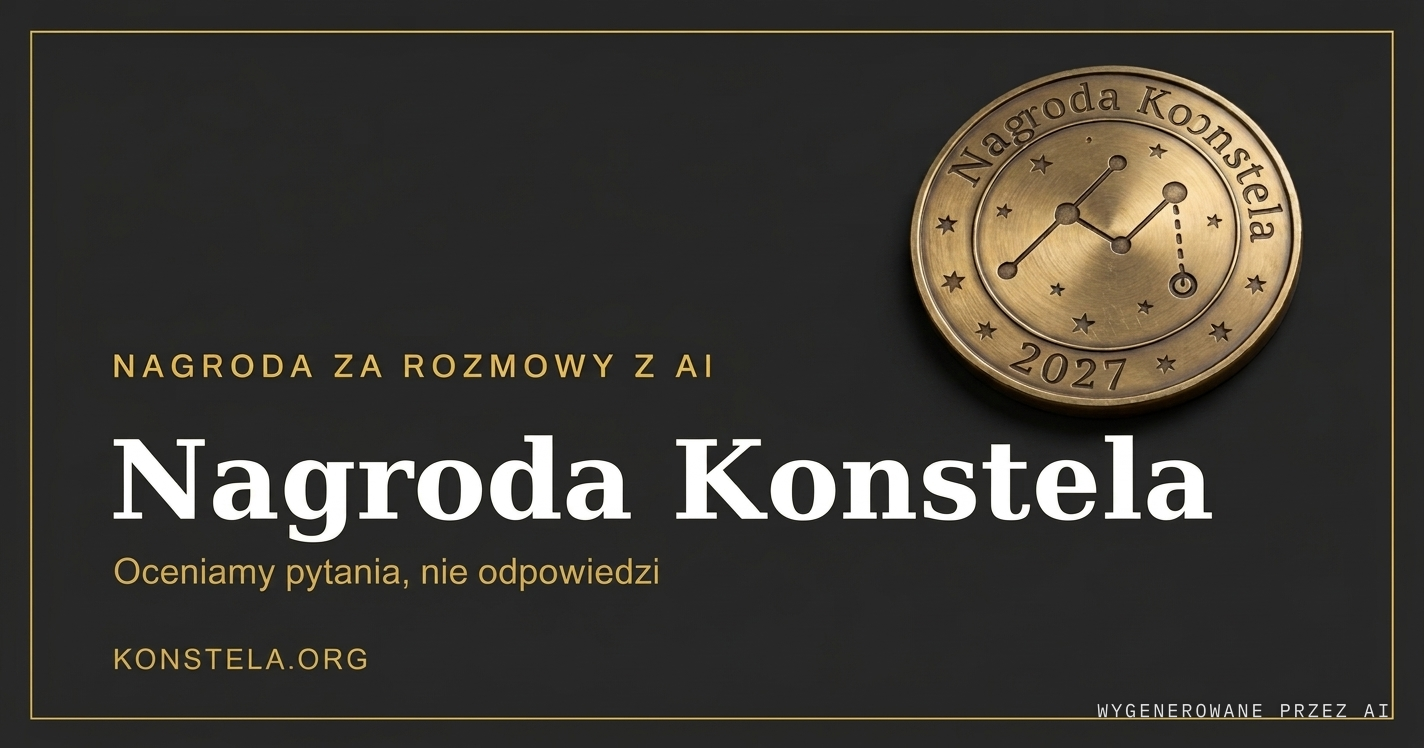
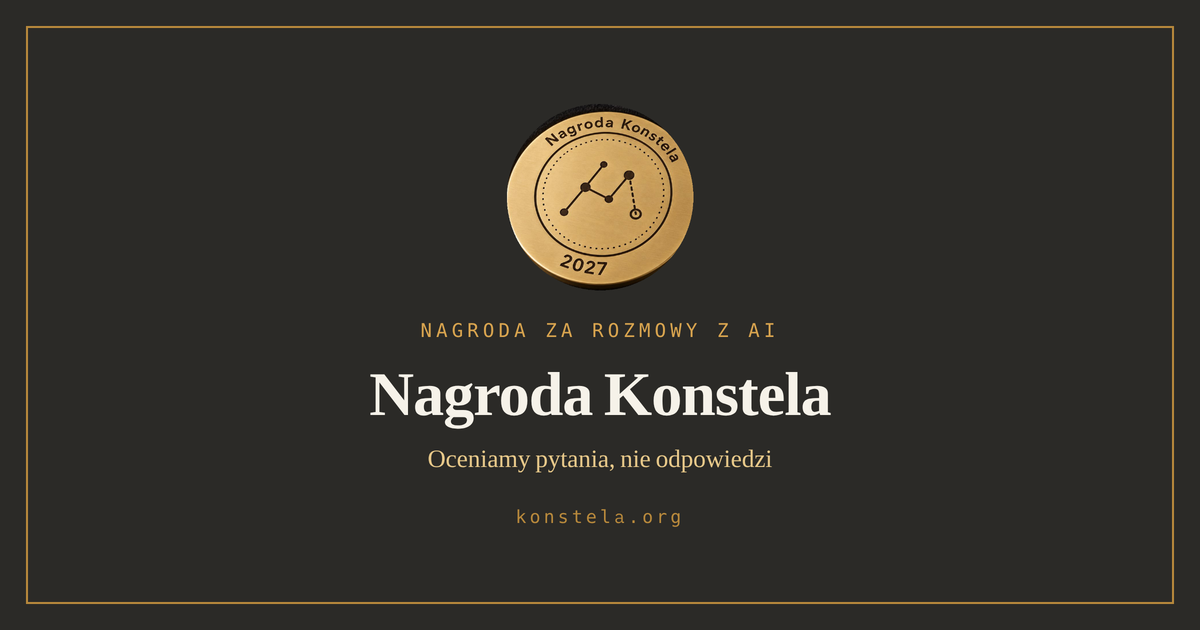
Obrazek zajawki czytelny także po przycięciu do kwadratu, jakie stosuje Instagram
Claude-Session: https://claude.ai/code/session_01WR2JsPawQK6ge7oAFtsinp

diff --git a/skrypty/og/og.html b/skrypty/og/og.html
@@ -1,0 +1,96 @@
+<!doctype html>
+<html lang="pl">
+  <head>
+    <meta charset="utf-8" />
+    <style>
+      @font-face {
+        font-family: 'Literata';
+        src: url('/assets/fonts/literata-latin-ext-600-normal.woff2') format('woff2');
+        font-weight: 600;
+      }
+      @font-face {
+        font-family: 'Literata';
+        src: url('/assets/fonts/literata-latin-ext-400-normal.woff2') format('woff2');
+        font-weight: 400;
+      }
+      @font-face {
+        font-family: 'IBM Plex Mono';
+        src: url('/assets/fonts/ibm-plex-mono-latin-ext-400-normal.woff2') format('woff2');
+        font-weight: 400;
+      }
+      * { margin: 0; padding: 0; box-sizing: border-box; }
+      body {
+        width: 1200px;
+        height: 630px;
+        background: #2b2a27;
+        color: #f6f2e9;
+        font-family: 'Literata', serif;
+        overflow: hidden;
+      }
+      .ramka {
+        position: absolute;
+        inset: 26px;
+        border: 2px solid #b8893c;
+      }
+      /* wszystko istotne mieści się w środkowym kwadracie 630 x 630,
+         bo Instagram i Messenger przycinają zajawkę do kwadratu */
+      .srodek {
+        position: absolute;
+        left: 50%;
+        top: 0;
+        width: 630px;
+        height: 630px;
+        transform: translateX(-50%);
+        display: flex;
+        flex-direction: column;
+        align-items: center;
+        justify-content: center;
+        text-align: center;
+        padding: 48px 30px;
+      }
+      .medal {
+        width: 190px;
+        height: 190px;
+        border-radius: 50%;
+        object-fit: contain;
+        margin-bottom: 26px;
+      }
+      .nad {
+        font-family: 'IBM Plex Mono', monospace;
+        font-size: 19px;
+        letter-spacing: 0.22em;
+        color: #d8a44f;
+        text-transform: uppercase;
+        margin-bottom: 14px;
+      }
+      h1 {
+        font-size: 62px;
+        font-weight: 600;
+        line-height: 1.05;
+        letter-spacing: -0.015em;
+      }
+      .pod {
+        font-size: 25px;
+        color: #e8c98a;
+        margin-top: 16px;
+      }
+      .adres {
+        font-family: 'IBM Plex Mono', monospace;
+        font-size: 18px;
+        letter-spacing: 0.18em;
+        color: #b8893c;
+        margin-top: 30px;
+      }
+    </style>
+  </head>
+  <body>
+    <div class="ramka"></div>
+    <div class="srodek">
+      <img class="medal" src="/assets/medal-kolo.png" alt="" />
+      <div class="nad">Nagroda za rozmowy z AI</div>
+      <h1>Nagroda Konstela</h1>
+      <div class="pod">Oceniamy pytania, nie odpowiedzi</div>
+      <div class="adres">konstela.org</div>
+    </div>
+  </body>
+</html>

diff --git a/jury-w-plebiscycie-rozmowy-z-ai/index.html b/jury-w-plebiscycie-rozmowy-z-ai/index.html
@@ -20,11 +20,11 @@
     <meta property="og:url" content="https://konstela.org/jury-w-plebiscycie-rozmowy-z-ai/" />
     <meta property="og:title" content="Szukamy jury plebiscytu na rozmowę ze sztuczną inteligencją" />
     <meta property="og:description" content="Czego Nagroda Konstela oczekuje od jury plebiscytu na rozmowę ze sztuczną inteligencją i co daje w zamian: zakres pracy, karta oceny, komentarze do antologii, honorarium i niezależność werdyktu." />
-    <meta property="og:image" content="https://konstela.org/assets/og.png?v=fabb98aad8" />
+    <meta property="og:image" content="https://konstela.org/assets/og.png?v=7dbc408a75" />
     <meta name="twitter:card" content="summary_large_image" />
     <meta name="twitter:title" content="Szukamy jury plebiscytu na rozmowę ze sztuczną inteligencją" />
     <meta name="twitter:description" content="Czego Nagroda Konstela oczekuje od jury plebiscytu na rozmowę ze sztuczną inteligencją i co daje w zamian: zakres pracy, karta oceny, komentarze do antologii, honorarium i niezależność werdyktu." />
-    <meta name="twitter:image" content="https://konstela.org/assets/og.png?v=fabb98aad8" />
+    <meta name="twitter:image" content="https://konstela.org/assets/og.png?v=7dbc408a75" />
     <link rel="stylesheet" href="/assets/czytelnosc.css?v=c15bed619e" />
     <link rel="stylesheet" href="/assets/view.css?v=dcf7ac4876" />
     <link rel="stylesheet" href="/assets/pasek.css?v=e2427fa4a7" />

diff --git a/jury-w-plebiscycie-piosenki-o-ai/index.html b/jury-w-plebiscycie-piosenki-o-ai/index.html
@@ -20,11 +20,11 @@
     <meta property="og:url" content="https://konstela.org/jury-w-plebiscycie-piosenki-o-ai/" />
     <meta property="og:title" content="Szukamy jury plebiscytu na piosenkę o sztucznej inteligencji" />
     <meta property="og:description" content="Czego Nagroda Konstela oczekuje od jury plebiscytu na piosenkę o sztucznej inteligencji i co daje w zamian: zakres pracy, karta oceny, honorarium, niezależność werdyktu i terminy pierwszej edycji." />
-    <meta property="og:image" content="https://konstela.org/assets/og.png?v=fabb98aad8" />
+    <meta property="og:image" content="https://konstela.org/assets/og.png?v=7dbc408a75" />
     <meta name="twitter:card" content="summary_large_image" />
     <meta name="twitter:title" content="Szukamy jury plebiscytu na piosenkę o sztucznej inteligencji" />
     <meta name="twitter:description" content="Czego Nagroda Konstela oczekuje od jury plebiscytu na piosenkę o sztucznej inteligencji i co daje w zamian: zakres pracy, karta oceny, honorarium, niezależność werdyktu i terminy pierwszej edycji." />
-    <meta name="twitter:image" content="https://konstela.org/assets/og.png?v=fabb98aad8" />
+    <meta name="twitter:image" content="https://konstela.org/assets/og.png?v=7dbc408a75" />
     <link rel="stylesheet" href="/assets/czytelnosc.css?v=c15bed619e" />
     <link rel="stylesheet" href="/assets/view.css?v=dcf7ac4876" />
     <link rel="stylesheet" href="/assets/pasek.css?v=e2427fa4a7" />

diff --git a/jury-w-plebiscycie-plakatu-o-ai/index.html b/jury-w-plebiscycie-plakatu-o-ai/index.html
@@ -20,11 +20,11 @@
     <meta property="og:url" content="https://konstela.org/jury-w-plebiscycie-plakatu-o-ai/" />
     <meta property="og:title" content="Szukamy jury plebiscytu na plakat o sztucznej inteligencji" />
     <meta property="og:description" content="Czego Nagroda Konstela oczekuje od jury plebiscytu na plakat o sztucznej inteligencji i co daje w zamian: zakres pracy, karta oceny, oględziny oryginałów, honorarium i niezależność werdyktu." />
-    <meta property="og:image" content="https://konstela.org/assets/og.png?v=fabb98aad8" />
+    <meta property="og:image" content="https://konstela.org/assets/og.png?v=7dbc408a75" />
     <meta name="twitter:card" content="summary_large_image" />
     <meta name="twitter:title" content="Szukamy jury plebiscytu na plakat o sztucznej inteligencji" />
     <meta name="twitter:description" content="Czego Nagroda Konstela oczekuje od jury plebiscytu na plakat o sztucznej inteligencji i co daje w zamian: zakres pracy, karta oceny, oględziny oryginałów, honorarium i niezależność werdyktu." />
-    <meta name="twitter:image" content="https://konstela.org/assets/og.png?v=fabb98aad8" />
+    <meta name="twitter:image" content="https://konstela.org/assets/og.png?v=7dbc408a75" />
     <link rel="stylesheet" href="/assets/czytelnosc.css?v=c15bed619e" />
     <link rel="stylesheet" href="/assets/view.css?v=dcf7ac4876" />
     <link rel="stylesheet" href="/assets/pasek.css?v=e2427fa4a7" />

diff --git a/jury-w-plebiscycie-filmu-o-ai/index.html b/jury-w-plebiscycie-filmu-o-ai/index.html
@@ -20,11 +20,11 @@
     <meta property="og:url" content="https://konstela.org/jury-w-plebiscycie-filmu-o-ai/" />
     <meta property="og:title" content="Szukamy jury plebiscytu na film o sztucznej inteligencji" />
     <meta property="og:description" content="Czego Nagroda Konstela oczekuje od jury plebiscytu na film o sztucznej inteligencji i co daje w zamian: zakres pracy, karta oceny, honorarium, niezależność werdyktu i terminy pierwszej edycji." />
-    <meta property="og:image" content="https://konstela.org/assets/og.png?v=fabb98aad8" />
+    <meta property="og:image" content="https://konstela.org/assets/og.png?v=7dbc408a75" />
     <meta name="twitter:card" content="summary_large_image" />
     <meta name="twitter:title" content="Szukamy jury plebiscytu na film o sztucznej inteligencji" />
     <meta name="twitter:description" content="Czego Nagroda Konstela oczekuje od jury plebiscytu na film o sztucznej inteligencji i co daje w zamian: zakres pracy, karta oceny, honorarium, niezależność werdyktu i terminy pierwszej edycji." />
-    <meta name="twitter:image" content="https://konstela.org/assets/og.png?v=fabb98aad8" />
+    <meta name="twitter:image" content="https://konstela.org/assets/og.png?v=7dbc408a75" />
     <link rel="stylesheet" href="/assets/czytelnosc.css?v=c15bed619e" />
     <link rel="stylesheet" href="/assets/view.css?v=dcf7ac4876" />
     <link rel="stylesheet" href="/assets/pasek.css?v=e2427fa4a7" />

diff --git a/statut/index.html b/statut/index.html
@@ -20,11 +20,11 @@
     <meta property="og:url" content="https://konstela.org/statut/" />
     <meta property="og:title" content="Statut Fundacji Konstela - szkielet do konsultacji" />
     <meta property="og:description" content="Pytania wynikają wprost ze znaczników w tekście powyżej i są ułożone w kolejności paragrafów. Każde dotyczy brzmienia zapisu, a nie wyboru biznesowego - wybory biznesowe są w następnej sekcji." />
-    <meta property="og:image" content="https://konstela.org/assets/og.png?v=fabb98aad8" />
+    <meta property="og:image" content="https://konstela.org/assets/og.png?v=7dbc408a75" />
     <meta name="twitter:card" content="summary_large_image" />
     <meta name="twitter:title" content="Statut Fundacji Konstela - szkielet do konsultacji" />
     <meta name="twitter:description" content="Pytania wynikają wprost ze znaczników w tekście powyżej i są ułożone w kolejności paragrafów. Każde dotyczy brzmienia zapisu, a nie wyboru biznesowego - wybory biznesowe są w następnej sekcji." />
-    <meta name="twitter:image" content="https://konstela.org/assets/og.png?v=fabb98aad8" />
+    <meta name="twitter:image" content="https://konstela.org/assets/og.png?v=7dbc408a75" />
     <link rel="stylesheet" href="/assets/czytelnosc.css?v=c15bed619e" />
     <link rel="stylesheet" href="/assets/view.css?v=dcf7ac4876" />
     <link rel="stylesheet" href="/assets/pasek.css?v=e2427fa4a7" />

diff --git a/dla-partnerow/index.html b/dla-partnerow/index.html
@@ -20,11 +20,11 @@
     <meta property="og:url" content="https://konstela.org/dla-partnerow/" />
     <meta property="og:title" content="Dla partnerów" />
     <meta property="og:description" content="Zakresy współpracy przy pierwszej edycji Nagrody Konstela: sponsorzy nagród w czterech plebiscytach, mecenasi antologii i sesji studyjnych, partnerzy wydawniczy, galeria, dystrybucja filmów, gala, podcast i patronat medialny." />
-    <meta property="og:image" content="https://konstela.org/assets/og.png?v=fabb98aad8" />
+    <meta property="og:image" content="https://konstela.org/assets/og.png?v=7dbc408a75" />
     <meta name="twitter:card" content="summary_large_image" />
     <meta name="twitter:title" content="Dla partnerów" />
     <meta name="twitter:description" content="Zakresy współpracy przy pierwszej edycji Nagrody Konstela: sponsorzy nagród w czterech plebiscytach, mecenasi antologii i sesji studyjnych, partnerzy wydawniczy, galeria, dystrybucja filmów, gala, podcast i patronat medialny." />
-    <meta name="twitter:image" content="https://konstela.org/assets/og.png?v=fabb98aad8" />
+    <meta name="twitter:image" content="https://konstela.org/assets/og.png?v=7dbc408a75" />
     <link rel="stylesheet" href="/assets/czytelnosc.css?v=c15bed619e" />
     <link rel="stylesheet" href="/assets/view.css?v=dcf7ac4876" />
     <link rel="stylesheet" href="/assets/pasek.css?v=e2427fa4a7" />

diff --git a/hymn/index.html b/hymn/index.html
@@ -20,11 +20,11 @@
     <meta property="og:url" content="https://konstela.org/hymn/" />
     <meta property="og:title" content="Hymn Nagrody Konstela „Zapytaj inaczej”" />
     <meta property="og:description" content="Hymn Nagrody Konstela „Zapytaj inaczej&quot;: pełny tekst, dwie wersje wygenerowane przez AI i zasada, której hymn podlega tak samo jak zgłoszenia - melodia pochodzi od człowieka." />
-    <meta property="og:image" content="https://konstela.org/assets/og.png?v=fabb98aad8" />
+    <meta property="og:image" content="https://konstela.org/assets/og.png?v=7dbc408a75" />
     <meta name="twitter:card" content="summary_large_image" />
     <meta name="twitter:title" content="Hymn Nagrody Konstela „Zapytaj inaczej”" />
     <meta name="twitter:description" content="Hymn Nagrody Konstela „Zapytaj inaczej&quot;: pełny tekst, dwie wersje wygenerowane przez AI i zasada, której hymn podlega tak samo jak zgłoszenia - melodia pochodzi od człowieka." />
-    <meta name="twitter:image" content="https://konstela.org/assets/og.png?v=fabb98aad8" />
+    <meta name="twitter:image" content="https://konstela.org/assets/og.png?v=7dbc408a75" />
     <link rel="stylesheet" href="/assets/czytelnosc.css?v=c15bed619e" />
     <link rel="stylesheet" href="/assets/view.css?v=dcf7ac4876" />
     <link rel="stylesheet" href="/assets/pasek.css?v=e2427fa4a7" />

diff --git a/fundacja/index.html b/fundacja/index.html
@@ -20,11 +20,11 @@
     <meta property="og:url" content="https://konstela.org/fundacja/" />
     <meta property="og:title" content="Fundacja Konstela" />
     <meta property="og:description" content="Fundacja Konstela - podmiot prowadzący Nagrodę: na jakim jest etapie, jakie ma cele statutowe, jak jest zbudowana, skąd bierze pieniądze i jak się z nią skontaktować." />
-    <meta property="og:image" content="https://konstela.org/assets/og.png?v=fabb98aad8" />
+    <meta property="og:image" content="https://konstela.org/assets/og.png?v=7dbc408a75" />
     <meta name="twitter:card" content="summary_large_image" />
     <meta name="twitter:title" content="Fundacja Konstela" />
     <meta name="twitter:description" content="Fundacja Konstela - podmiot prowadzący Nagrodę: na jakim jest etapie, jakie ma cele statutowe, jak jest zbudowana, skąd bierze pieniądze i jak się z nią skontaktować." />
-    <meta name="twitter:image" content="https://konstela.org/assets/og.png?v=fabb98aad8" />
+    <meta name="twitter:image" content="https://konstela.org/assets/og.png?v=7dbc408a75" />
     <link rel="stylesheet" href="/assets/czytelnosc.css?v=c15bed619e" />
     <link rel="stylesheet" href="/assets/view.css?v=dcf7ac4876" />
     <link rel="stylesheet" href="/assets/pasek.css?v=e2427fa4a7" />

diff --git a/regulaminy/index.html b/regulaminy/index.html
@@ -20,11 +20,11 @@
     <meta property="og:url" content="https://konstela.org/regulaminy/" />
     <meta property="og:title" content="Regulaminy Nagrody Konstela" />
     <meta property="og:description" content="Cztery regulaminy plebiscytów Nagrody Konstela w jednym miejscu: rozmowa, film, piosenka, plakat. Co je łączy i jakie dokumenty im towarzyszą." />
-    <meta property="og:image" content="https://konstela.org/assets/og.png?v=fabb98aad8" />
+    <meta property="og:image" content="https://konstela.org/assets/og.png?v=7dbc408a75" />
     <meta name="twitter:card" content="summary_large_image" />
     <meta name="twitter:title" content="Regulaminy Nagrody Konstela" />
     <meta name="twitter:description" content="Cztery regulaminy plebiscytów Nagrody Konstela w jednym miejscu: rozmowa, film, piosenka, plakat. Co je łączy i jakie dokumenty im towarzyszą." />
-    <meta name="twitter:image" content="https://konstela.org/assets/og.png?v=fabb98aad8" />
+    <meta name="twitter:image" content="https://konstela.org/assets/og.png?v=7dbc408a75" />
     <link rel="stylesheet" href="/assets/czytelnosc.css?v=c15bed619e" />
     <link rel="stylesheet" href="/assets/view.css?v=dcf7ac4876" />
     <link rel="stylesheet" href="/assets/pasek.css?v=e2427fa4a7" />

diff --git a/index.html b/index.html
@@ -43,7 +43,7 @@
       property="og:description"
       content="Coroczna nagroda dla ludzi, którzy najlepiej radzą sobie z AI. Oceniamy pytania, nie odpowiedzi."
     />
-    <meta property="og:image" content="https://konstela.org/assets/og.png?v=fabb98aad8" />
+    <meta property="og:image" content="https://konstela.org/assets/og.png?v=7dbc408a75" />
     <meta property="og:image:width" content="1200" />
     <meta property="og:image:height" content="630" />
     <meta name="twitter:card" content="summary_large_image" />
@@ -55,7 +55,7 @@
       name="twitter:description"
       content="Coroczna nagroda dla ludzi, którzy najlepiej radzą sobie z AI. Oceniamy pytania, nie odpowiedzi."
     />
-    <meta name="twitter:image" content="https://konstela.org/assets/og.png?v=fabb98aad8" />
+    <meta name="twitter:image" content="https://konstela.org/assets/og.png?v=7dbc408a75" />
     <script type="application/ld+json">
       {
         "@context": "https://schema.org",

diff --git a/skrypty/og/README.md b/skrypty/og/README.md
@@ -1,0 +1,39 @@
+# Obrazek zajawki (og:image)
+
+`assets/og.png` powstaje z `skrypty/og/og.html`, renderowanego Playwrightem w 1200 x 630
+przy dwukrotnej gęstości i zmniejszanego do 1200 x 630.
+
+**Dlaczego wszystko jest w środku.** Open Graph nie przewiduje osobnego obrazka dla
+układu pionowego: serwisy biorą jeden plik i przycinają go po swojemu. Instagram
+i Messenger w wiadomościach przycinają zajawkę mniej więcej do kwadratu, więc przy
+obrazku 1200 x 630 odpada po 285 pikseli z każdej strony. Dlatego medal, tytuł, podtytuł
+i adres mieszczą się w **środkowym kwadracie 630 x 630**, a na bokach zostaje samo tło
+z ramką. Ten sam plik czyta się poprawnie w kadrze szerokim (Facebook, LinkedIn, Slack)
+i w kwadratowym.
+
+Medal jest wycięty z `assets/medal.jpg` do `assets/medal-kolo.png` - koło o środku
+(512, 462) i promieniu 330 pikseli, przeskalowane do 600 x 600 z maską przezroczystości.
+
+## Jak przegenerować
+
+```bash
+cp skrypty/og/og.html ./og-podglad.html
+python3 -m http.server 8777 &
+node - <<'JS'
+const { chromium } = require('playwright');
+(async () => {
+  const b = await chromium.launch();
+  const p = await b.newPage({ viewport: { width: 1200, height: 630 }, deviceScaleFactor: 2 });
+  await p.goto('http://localhost:8777/og-podglad.html', { waitUntil: 'networkidle' });
+  await p.screenshot({ path: '/tmp/og-2x.png' });
+  await b.close();
+})();
+JS
+python3 -c "from PIL import Image; Image.open('/tmp/og-2x.png').resize((1200,630), Image.LANCZOS).save('assets/og.png')"
+rm og-podglad.html
+```
+
+Po podmianie uruchom `node skrypty/buduj-dokumenty.js` - znacznik wersji pliku policzy
+się z jego treści i strony wskażą nowy adres, więc pośrednicy nie oddadzą starego obrazka.
+Zajawkę sprawdza się w narzędziach do podglądu linków; samo podmienienie pliku nie
+odświeża tego, co serwisy mają już w pamięci podręcznej.
